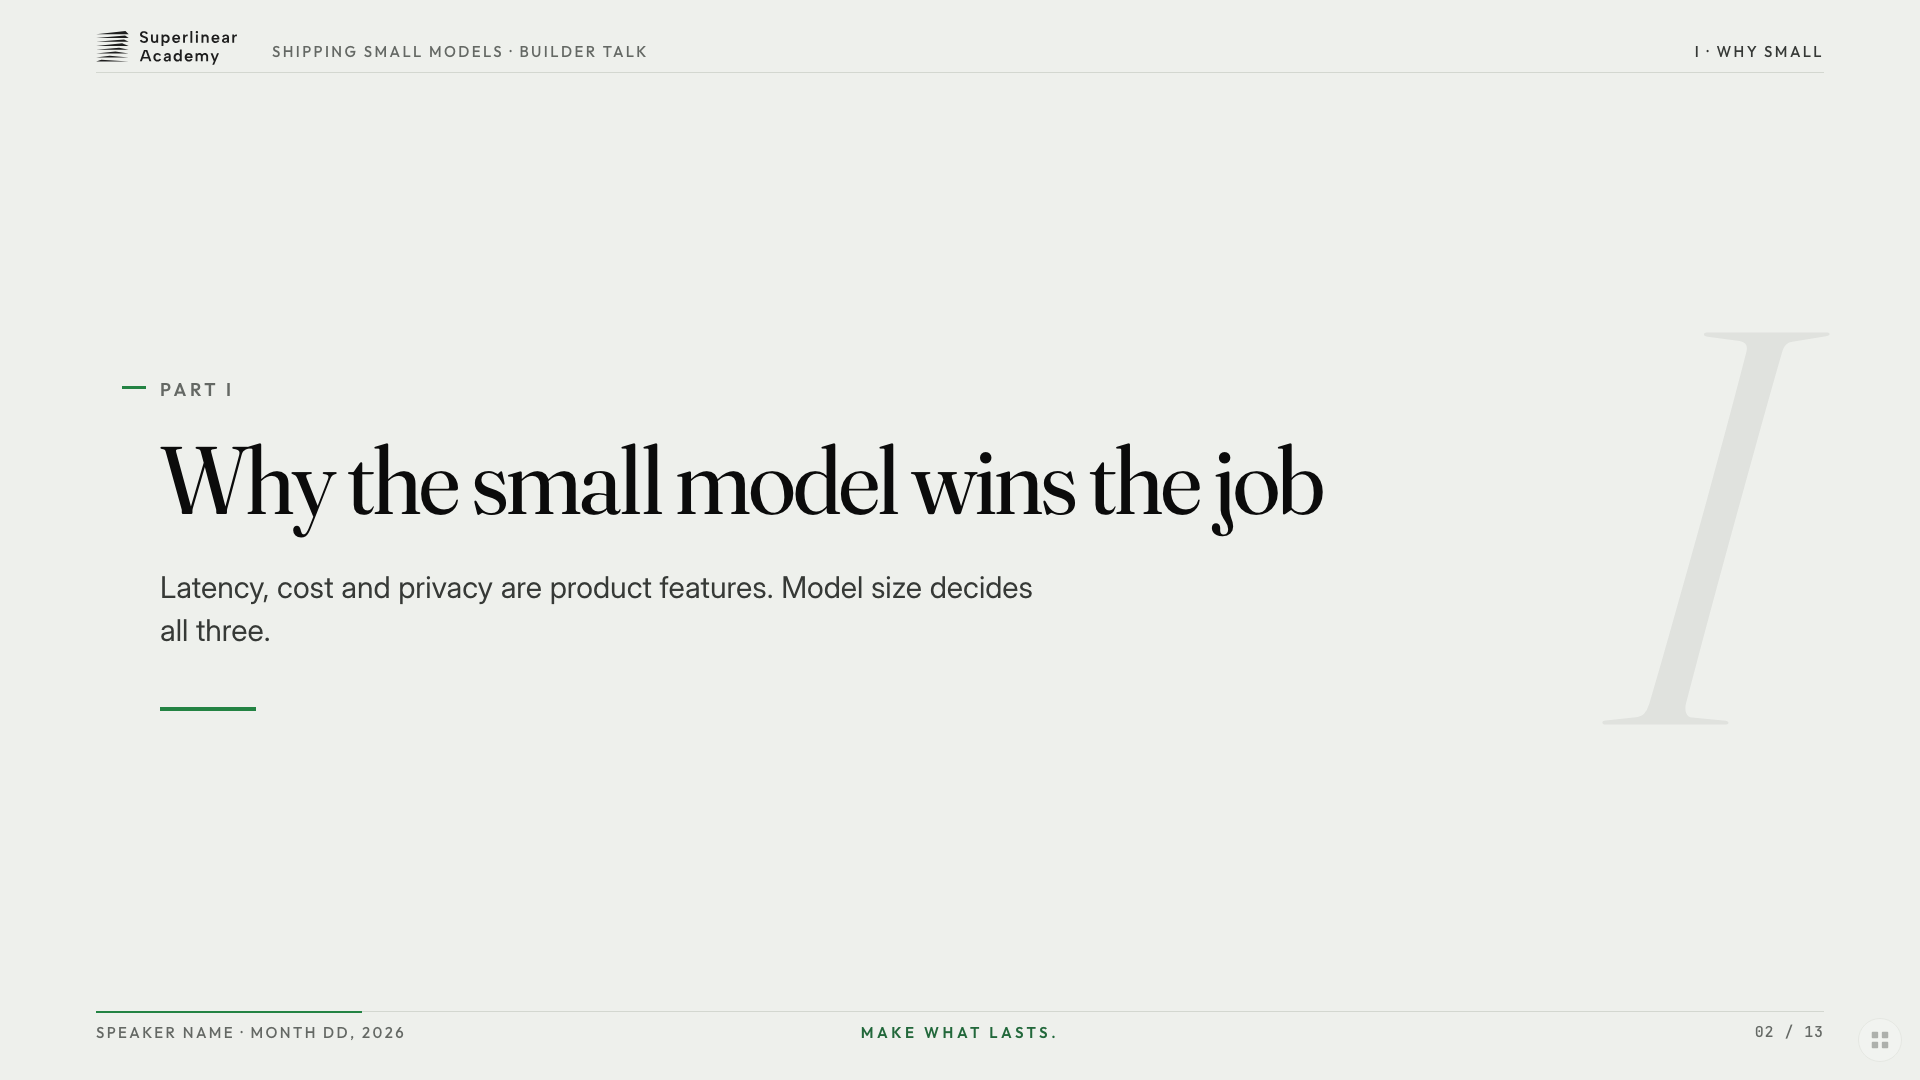
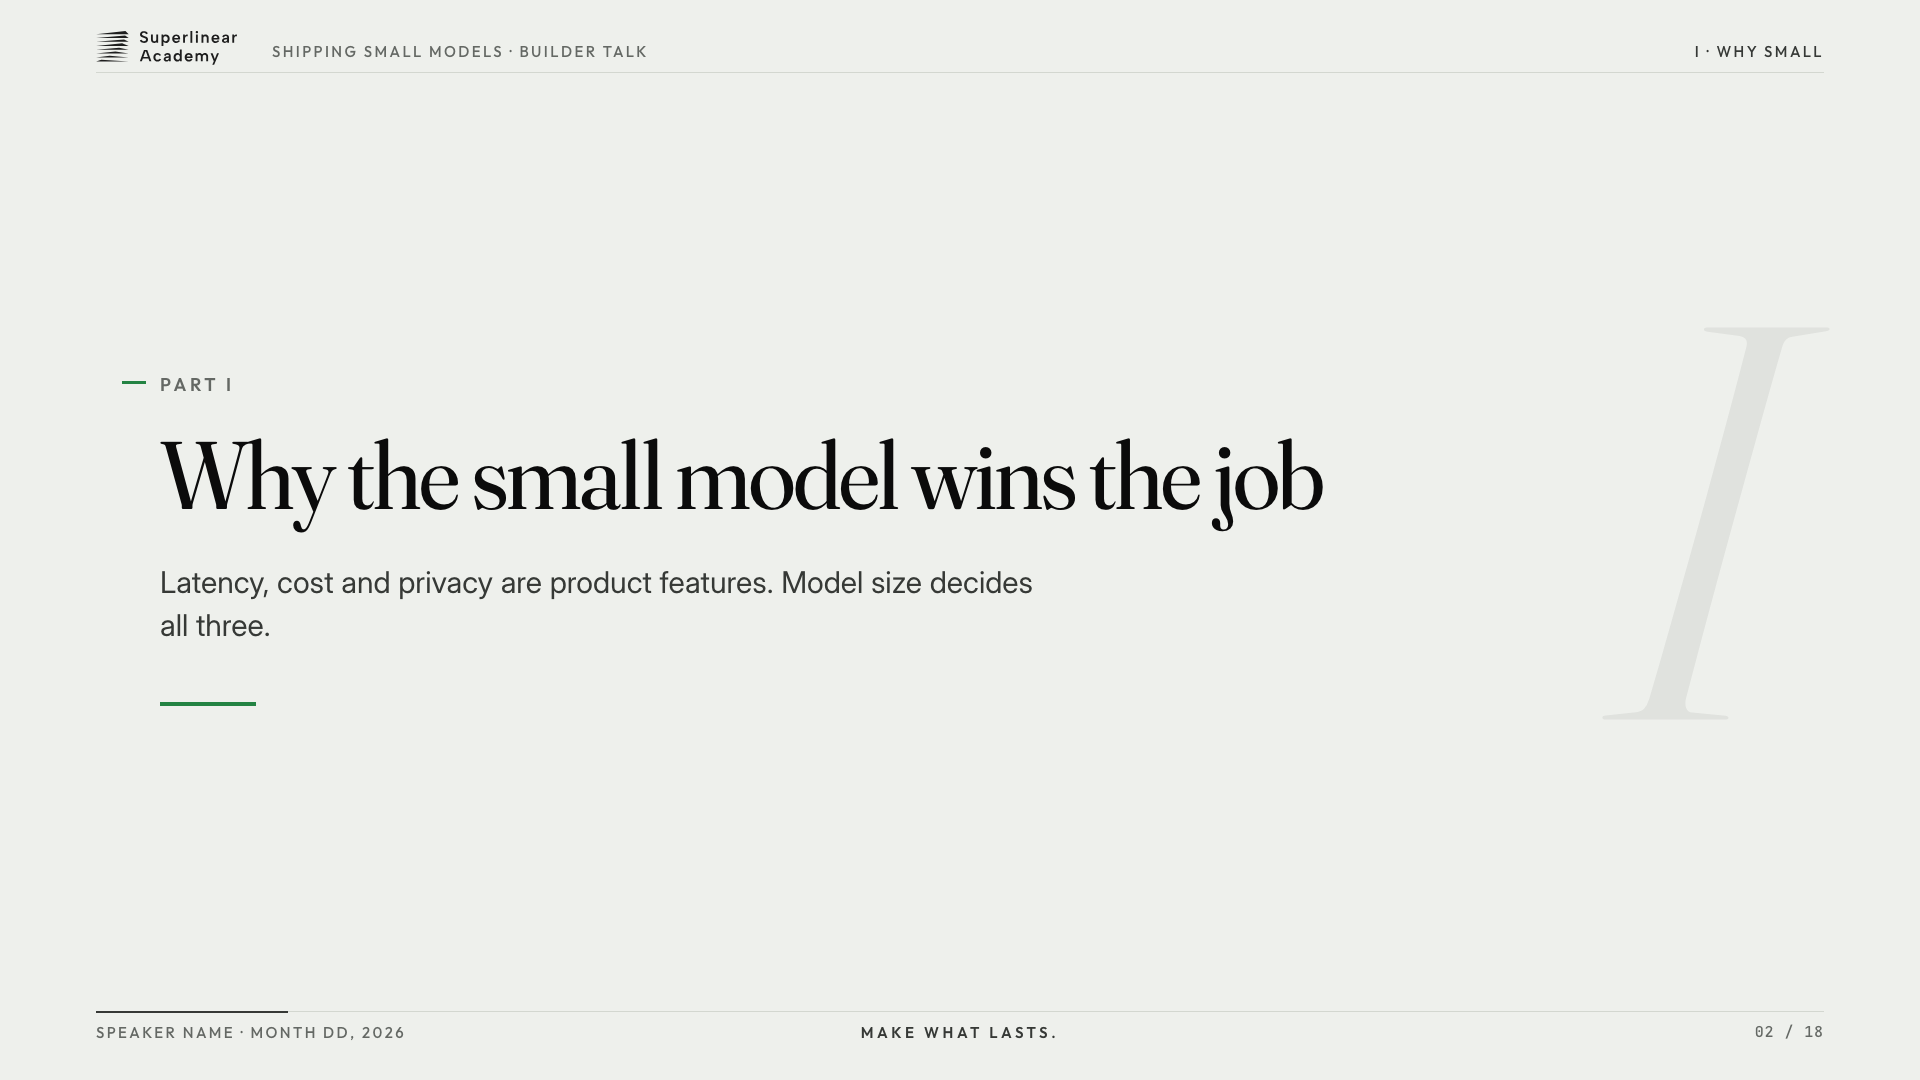
Example deck: documented brand/ install, slotted emphasis, five new layouts, synthetic recordings

diff --git a/examples/shipping_small_models/index.html b/examples/shipping_small_models/index.html
@@ -4,15 +4,15 @@
 <meta charset="utf-8">
 <meta name="viewport" content="width=device-width, initial-scale=1">
 <title>Shipping small models · Superlinear Academy example deck</title>
-<link rel="icon" href="../../skills/superlinear-brand/theme/logos/favicon.svg" type="image/svg+xml">
+<link rel="icon" href="brand/logos/favicon.svg" type="image/svg+xml">
 <link rel="stylesheet" href="vendor/reveal/reset.css">
 <link rel="stylesheet" href="vendor/reveal/reveal.css">
 <!-- presentation-skill scaffold stylesheet (engine layout + motion vocabulary) -->
 <link rel="stylesheet" href="css/deck.css">
-<!-- the brand theme. In your own deck copy theme/ to brand/ and point these at brand/ -->
-<link rel="stylesheet" href="../../skills/superlinear-brand/theme/tokens.css">
-<link rel="stylesheet" href="../../skills/superlinear-brand/theme/layouts.css">
-<link rel="stylesheet" href="../../skills/superlinear-brand/theme/canvas.css">
+<!-- the brand theme: the skill's theme/ folder copied in as brand/ (in this repo, brand/ is a symlink to it) -->
+<link rel="stylesheet" href="brand/tokens.css">
+<link rel="stylesheet" href="brand/layouts.css">
+<link rel="stylesheet" href="brand/canvas.css">
 </head>
 <body>
 <!-- Reveal carries navigation, fragments, notes and speaker view. Sections are generated by js/engine.js. -->
@@ -66,9 +66,9 @@
 <div class="frame" id="claim">
   <div class="sa-pad sa-claim">
     <div class="sa-kicker">The claim</div>
-    <h2 class="sa-display sa-h1 rise" data-in="claim.0" data-max-lines="3">A model that runs where the user is beats a better one that <span class="sa-em">waits on a network</span></h2>
+    <h2 class="sa-display sa-h1 rise" data-in="claim.0" data-max-lines="3" data-slot="claim.headline"></h2>
     <div class="support rise" data-in="claim.1">
-      <p class="sa-lede" data-max-lines="2">Users judge the answer they get in the moment, not the benchmark score behind it.</p>
+      <p class="sa-lede" data-max-lines="2" data-slot="claim.support"></p>
       <span class="sa-source">Illustrative example</span>
     </div>
   </div>
@@ -96,6 +96,24 @@
   </div>
 </div>
 
+<!-- 16 Table / matrix -->
+<div class="frame" id="tradeoffs">
+  <div class="sa-pad sa-tablewrap">
+    <div><div class="sa-kicker">Hosted or your own</div><h2 class="sa-display sa-h2" style="margin-top:20px" data-max-lines="1">Where each option wins</h2></div>
+    <table class="sa-table rise" data-in="tradeoffs.0">
+      <thead><tr><th></th><th>Hosted large model</th><th class="ours">Your small model</th></tr></thead>
+      <tbody>
+        <tr><th scope="row">Latency</th><td>A network round trip per request</td><td>40 ms on the device</td></tr>
+        <tr><th scope="row">Cost</th><td>Billed per token<span class="sa-small">grows with traffic</span></td><td>Your hardware<span class="sa-small">flat once shipped</span></td></tr>
+        <tr><th scope="row">Breadth</th><td>Open-ended requests</td><td>One task, done well</td></tr>
+        <tr><th scope="row">Privacy</th><td>Data leaves the device</td><td>Data stays local</td></tr>
+        <tr><th scope="row">Upkeep</th><td>The provider updates it</td><td>You retrain when the task changes</td></tr>
+      </tbody>
+    </table>
+    <div class="sa-source">Illustrative comparison for this example deck</div>
+  </div>
+</div>
+
 <!-- 05 Numbered steps -->
 <div class="frame" id="recipe">
   <div class="sa-pad sa-steps">
@@ -115,7 +133,7 @@
 <!-- 06 Big-number stat -->
 <div class="frame" id="latency">
   <div class="sa-pad sa-stat">
-    <div class="big rise" data-in="latency.0"><span class="counter" data-count="latency.0" data-from="0" data-to="40">40</span><span class="unit">ms</span></div>
+    <div class="big accent rise" data-in="latency.0"><span class="counter" data-count="latency.0" data-from="0" data-to="40">40</span><span class="unit">ms</span></div>
     <div class="side rise" data-in="latency.1">
       <div class="sa-kicker no-rule">Median response time on a phone</div>
       <h2 class="sa-display sa-h3" data-max-lines="3">Fast enough that the answer feels like part of the interface</h2>
@@ -160,6 +178,37 @@
       </svg>
     </div>
     <div class="sa-source">Illustrative values · Every data slide carries a source line from its first step</div>
+  </div>
+</div>
+
+<!-- 17 Horizontal bars with a side note and a takeaway -->
+<div class="frame" id="cost">
+  <div class="sa-pad sa-chart with-note">
+    <div>
+      <div class="sa-kicker">Cost per 1,000 requests</div>
+      <h2 class="sa-display sa-h2" style="margin-top:22px" data-max-lines="1">At steady traffic the student costs almost nothing</h2>
+    </div>
+    <div class="plot">
+      <svg viewBox="0 0 1130 440" role="img" aria-label="Horizontal bars: cost per 1,000 requests. Hosted large model $4.10, hosted small model $0.90, self-hosted 8B $0.45, on-device 1B $0.02">
+        <line class="axis" x1="330" y1="10" x2="330" y2="430"/>
+        <g class="rise" data-in="cost.0">
+          <text class="cat" x="0" y="54">Hosted large model</text><text class="sub" x="0" y="80">per-token API</text>
+          <rect class="bar" x="330" y="34" width="680" height="44"/><text class="value sm" x="1024" y="66">$4.10</text>
+          <text class="cat" x="0" y="158">Hosted small model</text><text class="sub" x="0" y="184">per-token API</text>
+          <rect class="bar" x="330" y="138" width="149" height="44"/><text class="value sm" x="493" y="170">$0.90</text>
+          <text class="cat" x="0" y="262">Self-hosted 8B</text><text class="sub" x="0" y="288">rented GPU, always on</text>
+          <rect class="bar" x="330" y="242" width="75" height="44"/><text class="value sm" x="419" y="274">$0.45</text>
+          <text class="cat" x="0" y="366">On-device 1B</text><text class="sub" x="0" y="392">the distilled student</text>
+          <rect class="bar hi" x="330" y="346" width="5" height="44"/><text class="value sm hi" x="349" y="378">$0.02</text>
+        </g>
+      </svg>
+      <div class="side-note rise" data-in="cost.1">
+        <div class="sa-note second">The price: a week of distillation up front, and a retrain whenever the task changes.</div>
+        <div class="sa-small">Cheap to run is not free to build.</div>
+      </div>
+    </div>
+    <p class="takeaway rise" data-in="cost.1" data-max-lines="1">Pay once in engineering, not on every request.</p>
+    <div class="sa-source">Illustrative values · steady traffic, one task</div>
   </div>
 </div>
 
@@ -219,6 +268,58 @@
   </div>
 </div>
 
+<!-- 14 Media: one recording -->
+<div class="frame" id="demo">
+  <div class="sa-pad sa-media">
+    <figure class="rise" data-in="demo.0">
+      <div class="sa-frame tight dark"><video class="sa-uncropped" src="media/run_b.webm" poster="media/run_b_poster.jpg" muted playsinline loop preload="metadata"></video></div>
+      <figcaption><span class="fig">Fig. 2</span><span class="cap">On-device student, screen recording (synthetic example footage)</span></figcaption>
+    </figure>
+    <div class="text rise" data-in="demo.0" style="transition-delay:.3s">
+      <div class="sa-kicker">Demo</div>
+      <h2 class="sa-display sa-h3" data-max-lines="4">The trace settles in under a second</h2>
+      <p class="sa-lede">The recording plays when the slide opens. Screenshots and the PDF show its poster frame.</p>
+    </div>
+  </div>
+</div>
+
+<!-- 15 Media pair -->
+<div class="frame" id="side_by_side">
+  <div class="sa-pad sa-pair">
+    <div><div class="sa-kicker">Same input, two players</div><h2 class="sa-display sa-h2" style="margin-top:20px" data-max-lines="1">The answer is the same; the wait is not</h2></div>
+    <div class="items">
+      <div class="item rise" data-in="side_by_side.0">
+        <div class="sa-frame tight dark"><video class="sa-uncropped" src="media/run_a.webm" poster="media/run_a_poster.jpg" muted playsinline loop preload="metadata"></video></div>
+        <div class="meta"><div class="num">2.4<span class="unit">s</span></div><div><div class="who">Hosted model · over the network</div><div class="desc">Median time to a usable answer</div></div></div>
+      </div>
+      <div class="item rise" data-in="side_by_side.1">
+        <div class="sa-frame tight dark"><video class="sa-uncropped" src="media/run_b.webm" poster="media/run_b_poster.jpg" muted playsinline loop preload="metadata"></video></div>
+        <div class="meta"><div class="num accent">0.4<span class="unit">s</span></div><div><div class="who">Distilled student · on device</div><div class="desc">Same input, same accepted answer</div></div></div>
+      </div>
+    </div>
+    <div class="sa-source">Synthetic example footage · illustrative timings</div>
+  </div>
+</div>
+
+<!-- 18 Missing-asset placeholder (inside the media layout) -->
+<div class="frame" id="offline">
+  <div class="sa-pad sa-media">
+    <figure>
+      <div class="sa-frame tight"><div class="sa-placeholder">
+        <div class="sa-tag">Placeholder · recording pending</div>
+        <div class="what">Phone recording with the network switched off</div>
+        <div class="spec">Portrait, about 30 s: a question typed, the answer appearing offline</div>
+      </div></div>
+      <figcaption><span class="fig">Fig. 3</span><span class="cap">The same task in airplane mode</span></figcaption>
+    </figure>
+    <div class="text">
+      <div class="sa-kicker">Offline</div>
+      <h2 class="sa-display sa-h3" data-max-lines="4">It keeps working with the network switched off</h2>
+      <p class="sa-lede">Nothing leaves the device, so there is nothing to wait for.</p>
+    </div>
+  </div>
+</div>
+
 <!-- 10 Timeline -->
 <div class="frame" id="plan">
   <div class="sa-pad sa-timeline">
@@ -238,7 +339,7 @@
 <!-- 11 Speaker bio -->
 <div class="frame" id="speaker">
   <div class="sa-pad sa-bio">
-    <div class="photo rise" data-in="speaker.0"><img class="sa-uncropped" src="../../skills/superlinear-brand/theme/placeholders/headshot.svg" alt="Speaker headshot placeholder"></div>
+    <div class="photo rise" data-in="speaker.0"><img class="sa-uncropped" src="brand/placeholders/headshot.svg" alt="Speaker headshot placeholder"></div>
     <div class="rise" data-in="speaker.0" style="transition-delay:.2s">
       <div class="sa-kicker">About the speaker</div>
       <h2 class="sa-display sa-h2" data-max-lines="1">Speaker Name</h2>
@@ -280,7 +381,7 @@
   <div class="sa-pad sa-close">
     <h2 class="sa-display sa-h1 rise" data-in="close.0" data-max-lines="1">Questions</h2>
     <p class="sa-lede rise" data-in="close.0" data-max-lines="1" style="transition-delay:.2s">Bring a task you want to run on a device.</p>
-    <img class="sa-logo rise" data-in="close.0" style="transition-delay:.4s" src="../../skills/superlinear-brand/theme/logos/primary-black.svg" alt="Superlinear Academy">
+    <img class="sa-logo rise" data-in="close.0" style="transition-delay:.4s" src="brand/logos/primary-black.svg" alt="Superlinear Academy">
     <div class="contact rise" data-in="close.0" style="transition-delay:.5s">superlinear.academy</div>
   </div>
 </div>
@@ -289,7 +390,7 @@
 </div></div>
 <div id="grain"></div>
 <div id="chrome">
-  <img class="sa-chrome-logo" src="../../skills/superlinear-brand/theme/logos/primary-black-compact.svg" alt="Superlinear Academy">
+  <img class="sa-chrome-logo" src="brand/logos/primary-black-compact.svg" alt="Superlinear Academy">
   <div class="run top"><span>Shipping small models · Builder talk</span><span id="part"></span></div>
   <div class="rule top"></div>
   <div class="rule bot"></div><div class="progress" id="progress"></div>
@@ -301,6 +402,7 @@
 <script src="vendor/reveal/reveal.js"></script>
 <script src="vendor/reveal/notes/notes.js"></script>
 <script src="js/copy.js"></script>
+<script src="brand/typeset.js"></script>  <!-- after copy.js, before engine.js: typographic quotes, number+unit no-break, ==emphasis== in slots -->
 <script src="js/deck.js"></script>
 <script src="js/engine.js"></script>
 </body>

diff --git a/examples/shipping_small_models/js/copy.js b/examples/shipping_small_models/js/copy.js
@@ -3,13 +3,22 @@
 window.COPY = {
   cover:    { notes: "Example cover. The kicker names the occasion, the title is the talk, the lede is the promise." },
   part1:    { notes: "Section opener. One line for why this part exists." },
-  claim:    { notes: "One claim, set large. The support line arrives on the next click.\n\n[click]\n\nThe source line stays small and grey." },
+  /* on-screen copy for slotted elements: "==phrase==" becomes green emphasis (brand/typeset.js);
+     straight quotes and "40 ms" are typeset automatically */
+  claim:    { headline: "A model that runs where the user is beats a better one that ==waits on a network==",
+              support: "Users judge the answer they get in the moment, not the benchmark score behind it. A 40 ms reply doesn't feel like waiting.",
+              notes: "One claim, set large. The support line arrives on the next click.\n\n[click]\n\nThe source line stays small and grey." },
   compare:  { notes: "Two hairline cards. Green inset bar for the side we recommend, oxblood hatching for the side we reject.\n\n[click]\n\n[click]\n\nThe closing line says what to do." },
+  tradeoffs: { notes: "A real table. The recommended column gets a green rule under its header and nothing louder." },
   recipe:   { notes: "Four steps, one per click. The current step carries the green rule." },
   latency:  { notes: "One big number in brand green, with its label and source beside it." },
   accuracy: { notes: "Inline SVG chart. Only the bar the slide is about is green; the rest are hairline outlines.\n\n[click]\n\nThe callout arrives on its own beat." },
+  cost:     { notes: "Horizontal bars with a muted second line under each category, a side note for the price, and a takeaway row.\n\n[click]\n\nThe note and the takeaway arrive together." },
   rule:     { notes: "A quote with a green rule. The gloss explains why it matters." },
   distil:   { notes: "A textless line plate in a hairline frame, with a mono figure number and an italic caption." },
+  demo:     { notes: "One recording, shown whole in a tight dark frame. It plays on enter; the poster is a representative frame." },
+  side_by_side: { notes: "Two recordings side by side, each with its own number. Only our number is green." },
+  offline:  { notes: "A placeholder for a recording that does not exist yet. render.py lists it; --final fails on it." },
   plan:     { notes: "Timeline. Past ticks are grey rings, the current one is a solid green dot." },
   speaker:  { notes: "Speaker bio. The headshot is shown whole, letterboxed if needed, never cropped." },
   course:   { notes: "Course call to action. The only solid green block in the system is the button." },

diff --git a/examples/shipping_small_models/js/deck.js b/examples/shipping_small_models/js/deck.js
@@ -9,14 +9,31 @@
     S("part1", P1, 1),
     S("claim", P1, 2),
     S("compare", P1, 3),
+    S("tradeoffs", P1, 1),
     S("recipe", P2, 4),
     S("latency", P2, 2),
     S("accuracy", P2, 2),
+    S("cost", P2, 2),
     S("rule", P2, 2),
     S("distil", P2, 1),
+    S("demo", P3, 1),
+    S("side_by_side", P3, 2),
+    S("offline", P3, 1),
     S("plan", P3, 2),
     S("speaker", P3, 1),
     S("course", P3, 2),
     S("close", "", 1),
   ];
+
+  /* recordings play while their slide is on screen and reset to the poster when you leave
+     (screenshots and the PDF always show the poster) */
+  const videos = id => document.querySelectorAll(`#${id} video`);
+  const hook = id => {
+    let on = false;
+    return {
+      enter() { if (on) return; on = true; videos(id).forEach(v => { v.currentTime = 0; v.play().catch(() => {}); }); },
+      leave() { on = false; videos(id).forEach(v => { v.pause(); v.load(); }); },
+    };
+  };
+  window.DECK_HOOKS = { demo: hook("demo"), side_by_side: hook("side_by_side") };
 })();

diff --git a/examples/shipping_small_models/media/make_media.py b/examples/shipping_small_models/media/make_media.py
@@ -1,0 +1,25 @@
+"""Generates the two synthetic screen recordings used by the example deck (no real footage). Needs Pillow and ffmpeg."""
+import math, pathlib, subprocess, sys, tempfile
+from PIL import Image, ImageDraw
+out = pathlib.Path(sys.argv[1]) if len(sys.argv) > 1 else pathlib.Path(__file__).parent; W, H, N = 960, 540, 60
+def path(kind, t):
+    if kind == "a":  # slow, wandering
+        x = 80 + 800 * t; y = 300 + 120 * math.sin(t * 9) * (1 - t * .6)
+    else:            # fast, settles
+        x = 80 + 800 * min(1, t * 1.6); y = 300 - 150 * (1 - math.exp(-6 * min(1, t * 1.6))) + 10 * math.sin(t * 30) * math.exp(-5 * t)
+    return x, y
+for kind, trail in (("a", (170, 176, 170)), ("b", (88, 196, 120))):
+    d = pathlib.Path(tempfile.mkdtemp(prefix=f"frames_{kind}_"))
+    for i in range(N):
+        t = i / (N - 1)
+        im = Image.new("RGB", (W, H), (17, 19, 18)); g = ImageDraw.Draw(im)
+        for gx in range(80, 900, 80): g.line([(gx, 60), (gx, 480)], fill=(32, 35, 33))
+        for gy in range(60, 500, 70): g.line([(80, gy), (880, gy)], fill=(32, 35, 33))
+        g.rectangle([0, 0, W, 34], fill=(26, 28, 27)); [g.ellipse([16 + k * 20, 12, 26 + k * 20, 22], fill=(60, 64, 62)) for k in range(3)]
+        pts = [path(kind, s / 200 * t) for s in range(201)]
+        g.line(pts, fill=trail, width=4, joint="curve")
+        x, y = pts[-1]; g.ellipse([x - 9, y - 9, x + 9, y + 9], fill=(238, 240, 236))
+        g.rectangle([80, 500, 80 + 800 * t, 506], fill=trail)
+        im.save(d / f"f{i:03d}.png")
+    subprocess.run(["ffmpeg", "-loglevel", "error", "-y", "-framerate", "15", "-i", str(d / "f%03d.png"), "-c:v", "libvpx-vp9", "-crf", "38", "-b:v", "0", "-pix_fmt", "yuv420p", str(out / f"run_{kind}.webm")], check=True)
+    Image.open(d / f"f{int(N*0.7):03d}.png").save(out / f"run_{kind}_poster.jpg", quality=86)

diff --git a/examples/shipping_small_models/README.md b/examples/shipping_small_models/README.md
@@ -1,24 +1,28 @@
 # Example deck: "Shipping small models"
 
-A made-up 13-slide talk that shows every layout of the Superlinear Academy brand theme inside a presentation-skill
-HTML canvas deck. The content is placeholder: the speaker, figures and course details are illustrative.
+A made-up 18-slide talk that shows every layout of the Superlinear Academy brand theme inside a presentation-skill
+HTML canvas deck (<https://github.com/grapeot/presentation_skill>). The content is placeholder: the speaker, figures,
+recordings and course details are illustrative.
+
+The deck is laid out exactly like the documented install, so its `<head>`, `#chrome` and script block can be copied
+into a real deck as they are.
 
 | File | Source |
 |---|---|
 | `index.html` | Hand-written frames (one per layout) between `FRAMES:BEGIN` / `FRAMES:END`; brand chrome in `#chrome` |
-| `js/engine.js`, `css/deck.css` | The presentation skill's canvas scaffold (MIT), unmodified except the font block |
-| `js/deck.js`, `js/copy.js` | Slide table and speaker notes |
+| `brand/` | The skill's `theme/` folder. **In this repository it is a symlink** to `../../skills/superlinear-brand/theme`; in your deck, copy the folder |
+| `js/engine.js`, `css/deck.css` | The presentation skill's canvas scaffold (MIT), unmodified except the removed `@font-face` block |
+| `js/copy.js` | Speaker notes, plus the slotted copy of the claim slide (`==phrase==` emphasis, filled by the engine and typeset by `brand/typeset.js`) |
+| `js/deck.js` | Slide table, and `DECK_HOOKS` that play the recordings on enter and reset them to their posters on leave |
+| `media/` | Two synthetic screen recordings (WebM) and their posters, generated by `media/make_media.py`; no real footage |
 | `vendor/reveal/` | Reveal.js 5 (MIT, `vendor/reveal/LICENSE`) |
-| Theme | `../../skills/superlinear-brand/theme/` (in a real deck, copy it in as `brand/`) |
 | `screenshots/` | Every slide at its last step and `contact_sheet.jpg`, produced by `render.py deck` |
 
 ## View
 
-The deck links the theme two levels up, so serve the repository root:
-
 ```bash
-python3 -m http.server 8765 --bind 127.0.0.1      # from the repository root
-# open http://127.0.0.1:8765/examples/shipping_small_models/
+python3 -m http.server 8765 --bind 127.0.0.1 --directory examples/shipping_small_models
+# open http://127.0.0.1:8765/
 ```
 
 Arrow keys or space to step, S for the speaker view, M for the slide navigator.
@@ -26,5 +30,9 @@ Arrow keys or space to step, S for the speaker view, M for the slide navigator.
 ## Re-render the screenshots
 
 ```bash
-.venv/bin/python skills/superlinear-brand/scripts/render.py deck examples/shipping_small_models
+.venv/bin/python skills/superlinear-brand/scripts/render.py deck examples/shipping_small_models \
+  --out examples/shipping_small_models/screenshots
 ```
+
+The offline-demo slide deliberately contains a `.sa-placeholder`: the render lists it as a warning, and
+`--final` fails on it.
